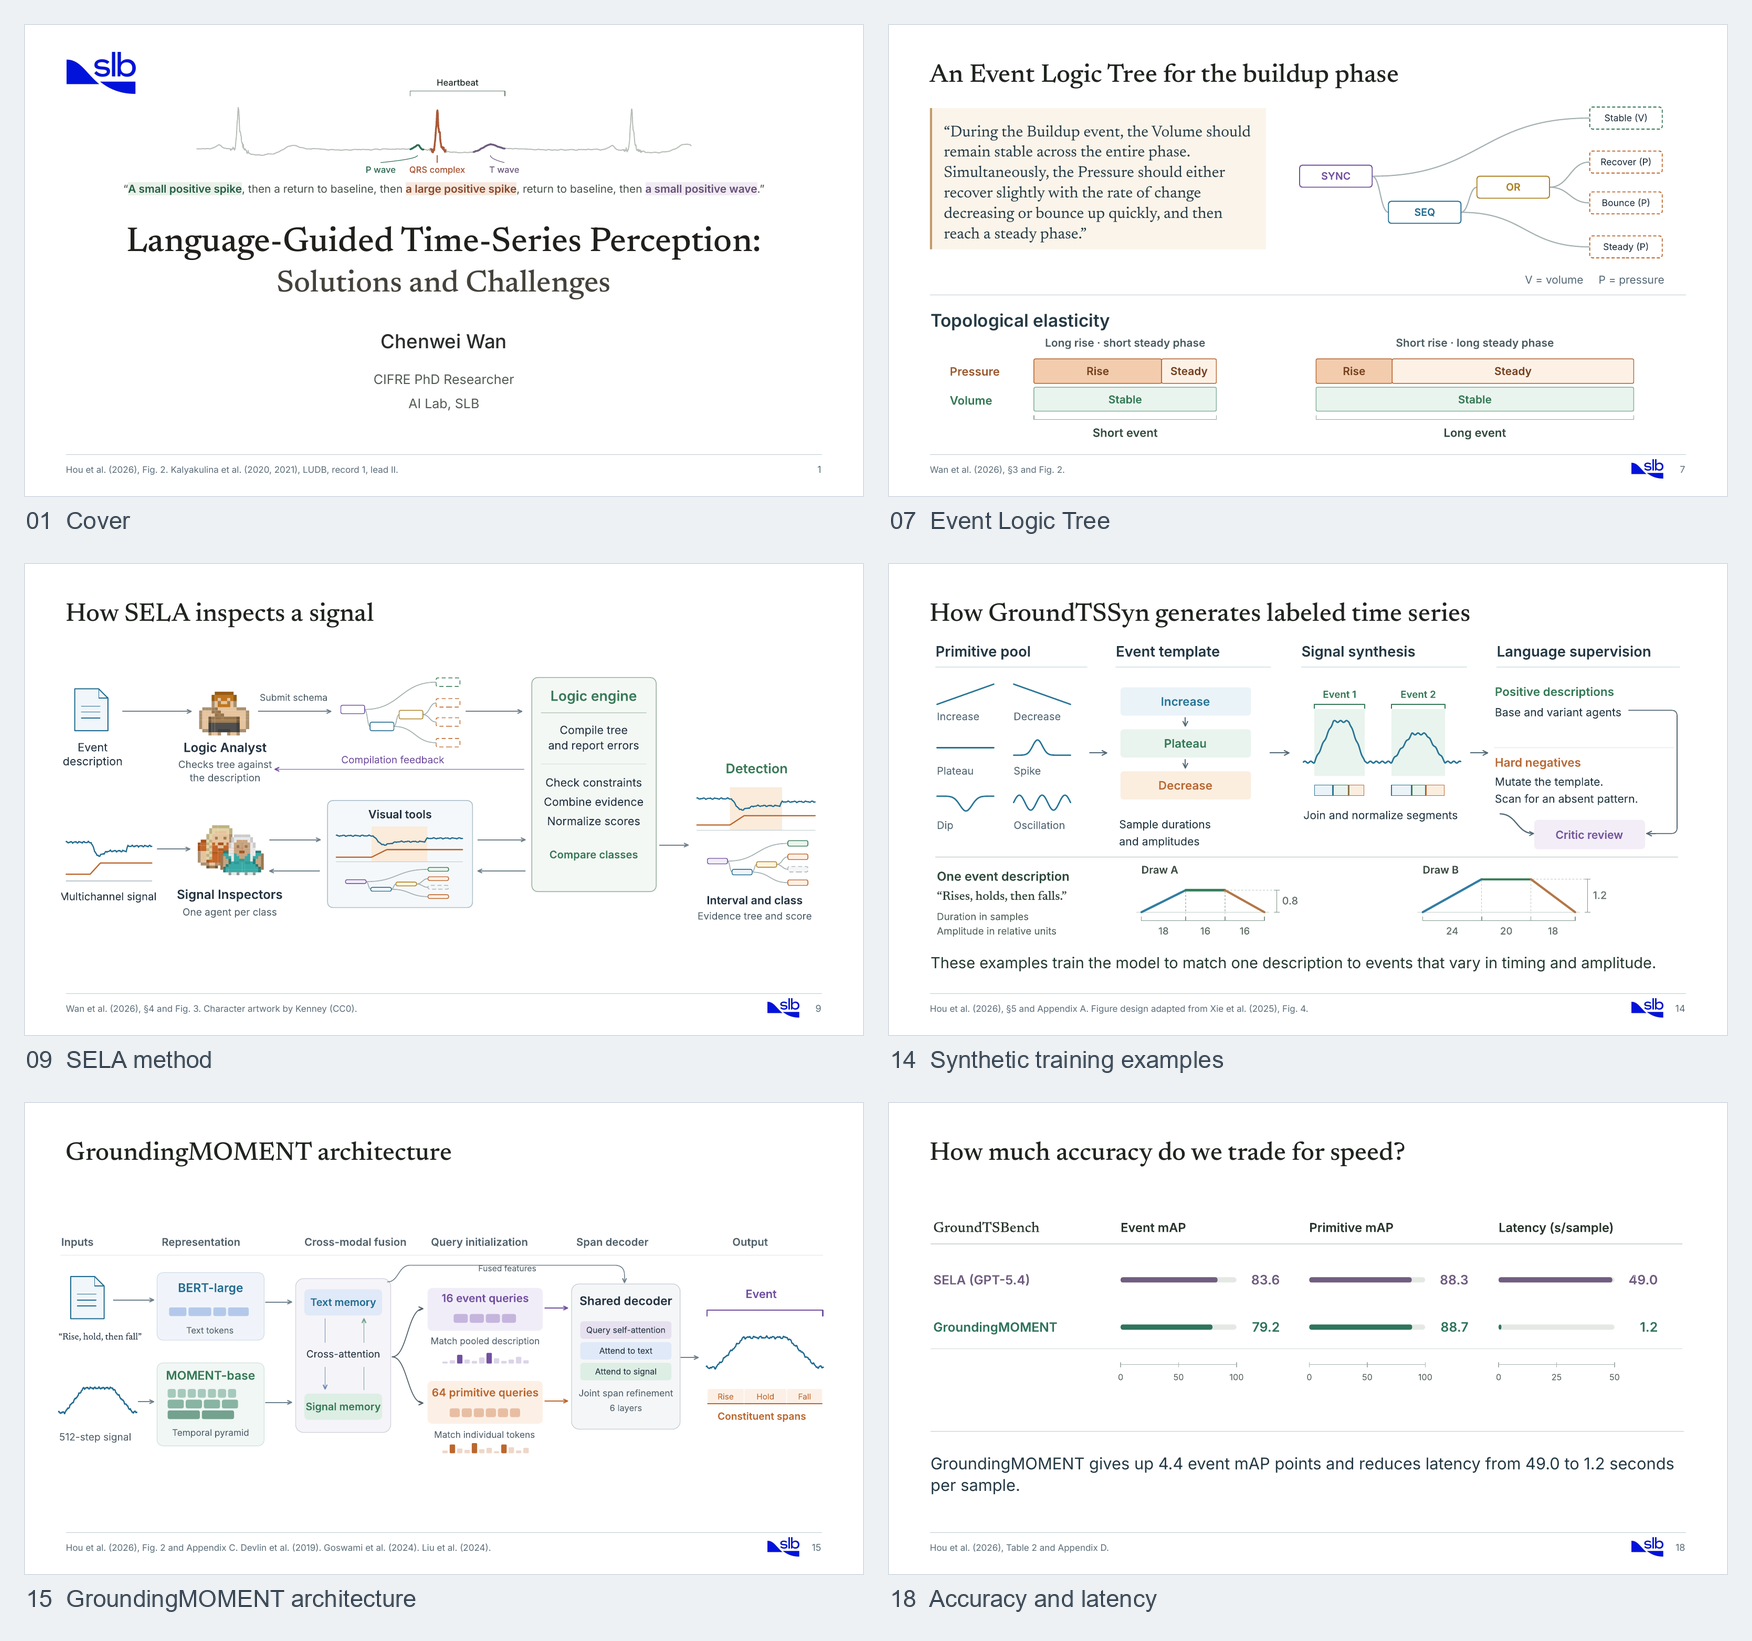
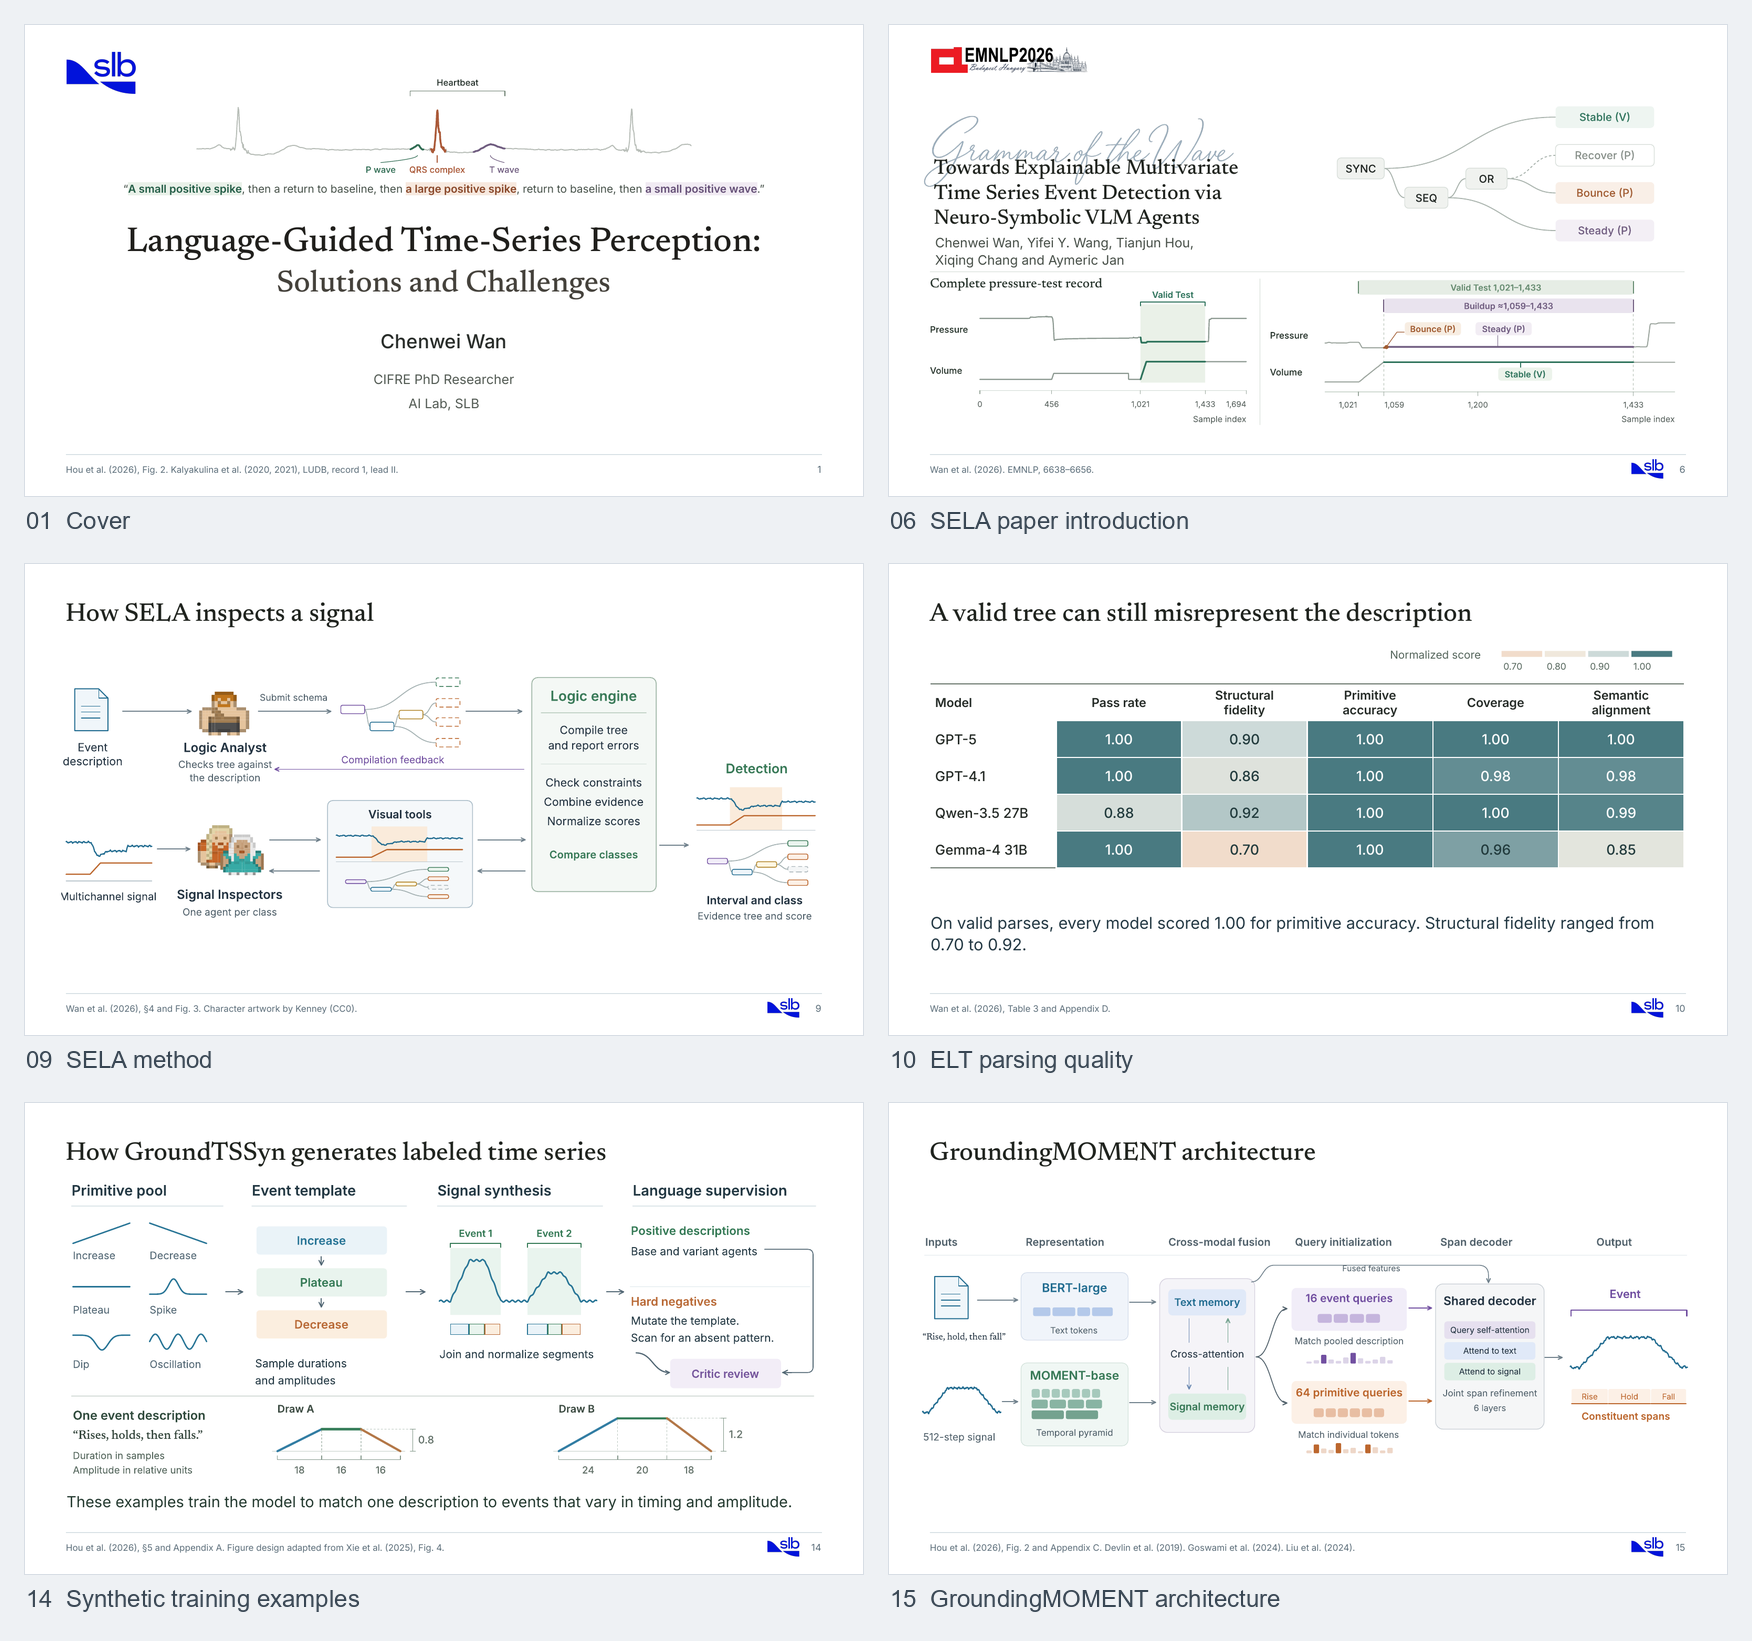
Update README showcase to slides 1, 6, 9, 10, 14, and 15

diff --git a/examples/v0.2.0/slb-webinar-2026-11-25/README.md b/examples/v0.2.0/slb-webinar-2026-11-25/README.md
@@ -33,26 +33,26 @@ Images are rendered directly from the supplied PDF. Click to open at full resolu
 
 [![Seminar cover](previews/cover.png)](previews/cover.png)
 
-[![Six selected slides: cover, Event Logic Tree, SELA, synthesis, architecture, and metrics](previews/overview.png)](previews/overview.png)
+[![Slides 1, 6, 9, 10, 14, and 15: cover, SELA introduction, method, parsing quality, synthesis, and architecture](previews/overview.png)](previews/overview.png)
 
 <details>
 <summary>Selected slides at full size</summary>
 
-### Slide 7: Event Logic Tree
+### Slide 6: SELA paper introduction
 
-[![Event Logic Tree and temporal elasticity](previews/event-logic-tree.png)](previews/event-logic-tree.png)
+[![Grammar of the Wave paper introduction and event example](previews/sela-introduction.png)](previews/sela-introduction.png)
 
 ### Slide 9: SELA method
 
 [![SELA signal inspection method](previews/sela-method.png)](previews/sela-method.png)
 
+### Slide 10: ELT parsing quality
+
+[![Pass rate, structural fidelity, primitive accuracy, coverage, and semantic alignment](previews/parsing-quality.png)](previews/parsing-quality.png)
+
 ### Slide 14: Synthetic training examples
 
 [![GroundTSSyn duration and amplitude variation](previews/synthesis-variation.png)](previews/synthesis-variation.png)
-
-### Slide 18: Accuracy and latency
-
-[![GroundTSBench metrics and latency comparison](previews/accuracy-latency.png)](previews/accuracy-latency.png)
 
 </details>
 

diff --git a/README.zh-CN.md b/README.zh-CN.md
@@ -27,7 +27,7 @@
 
 <p align="center">
   <a href="examples/v0.2.0/slb-webinar-2026-11-25/README.md">
-    <img src="examples/v0.2.0/slb-webinar-2026-11-25/previews/overview.png" width="920" alt="六页实际报告预览：封面、逻辑树、方法、合成示例、模型结构和实验比较">
+    <img src="examples/v0.2.0/slb-webinar-2026-11-25/previews/overview.png" width="920" alt="报告第 1、6、9、10、14、15 页：封面、SELA 介绍、方法、解析质量、合成示例和模型结构">
   </a>
 </p>
 

diff --git a/README.md b/README.md
@@ -27,7 +27,7 @@
 
 <p align="center">
   <a href="examples/v0.2.0/slb-webinar-2026-11-25/README.md">
-    <img src="examples/v0.2.0/slb-webinar-2026-11-25/previews/overview.png" width="920" alt="Six actual seminar slides: cover, logic tree, method, synthesis, architecture, and results">
+    <img src="examples/v0.2.0/slb-webinar-2026-11-25/previews/overview.png" width="920" alt="Seminar slides 1, 6, 9, 10, 14, and 15: cover, SELA introduction, method, parsing quality, synthesis, and architecture">
   </a>
 </p>
 
